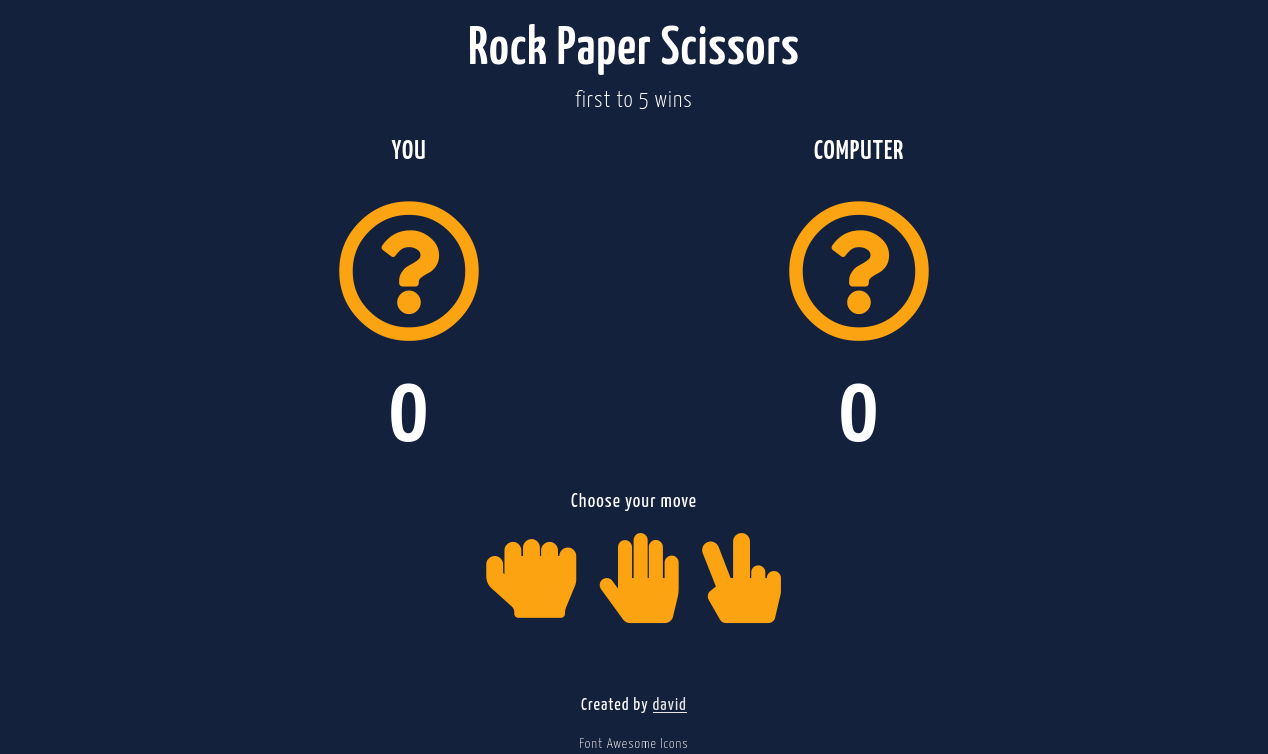
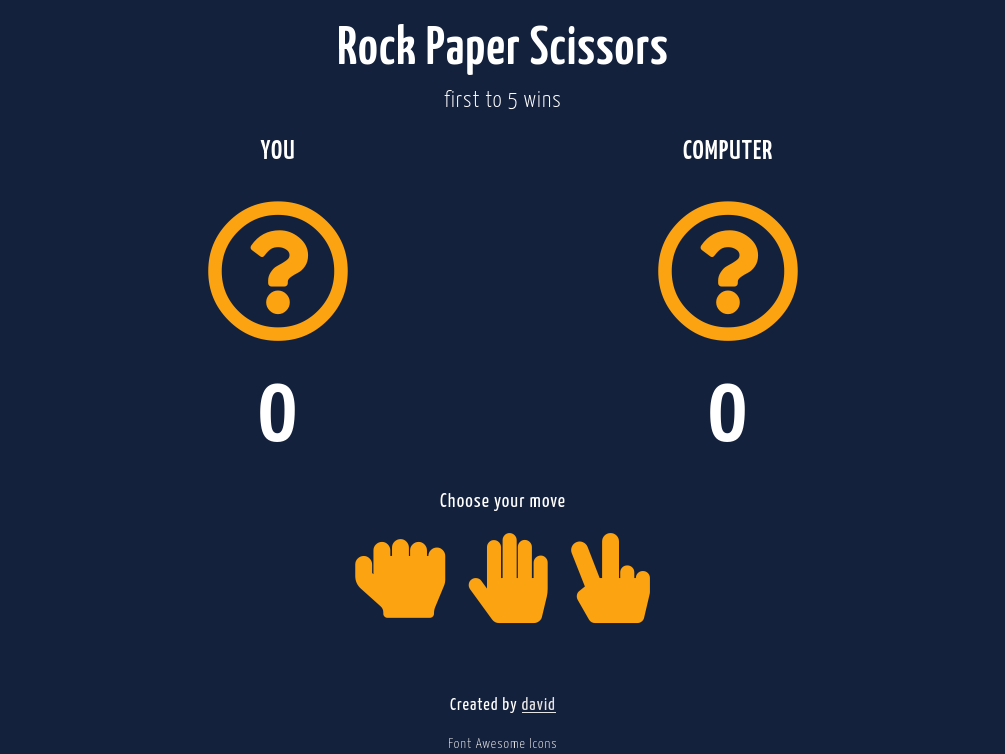
update README.md

diff --git a/README.md b/README.md
@@ -11,5 +11,7 @@ This was a small Javascript project from The Odin Project Web Development Curric
 [RPS Game](https://davidtrikic.github.io/rock-paper-scissors/)
 
 ## Screenshots
+### Desktop
 ![](./screenshots/screenshot_1.png)
+### Mobile
 ![](./screenshots/screenshot_2.png)
